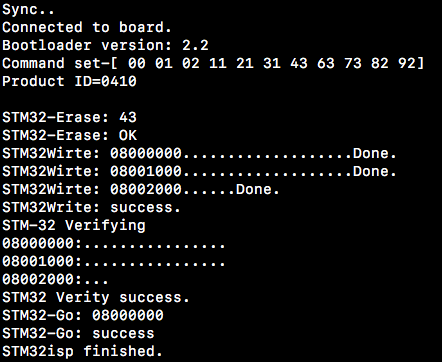
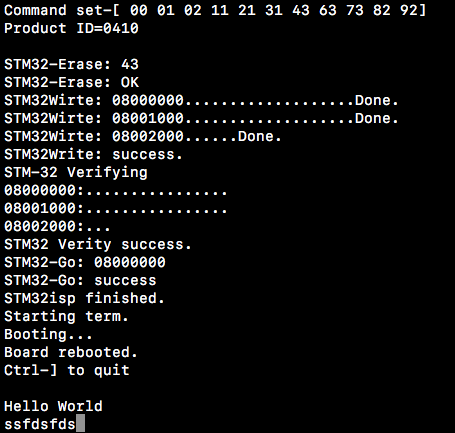
add issue23 and modify issue5

diff --git a/Issue_5/命令行的串口下载工具-MacOS.md b/Issue_5/命令行的串口下载工具-MacOS.md
@@ -26,33 +26,41 @@
     <td> A10 </td>
     <td> TXD </td>
   </tr>
+  <tr>
+    <td> reset </td>
+    <td> DTR </td>
+  </tr>
+  <tr>
+    <td> BT0 </td>
+    <td> RTS </td>
+  </tr>
 </table>
 
-![](./img/stm32.jpeg)
-
 ![](./img/USB.jpeg)
-连接完毕后使用跳线帽将stm32板上的BT0（即BOOT0）接到1，BT1（即BOOT1）接到0(如下图），这样是为了将stm32的执行方式改为执行ROM中的程序，ROM中是厂家烧录的程序，用于支持将程序下载到Flash储存中，在下载完成后要将BT0改到0，转换到执行Flash储存的程序（即刚刚烧录的程序）。
+其中DTR和RTS端口连接reset和BT0端口是为了使用上位机自动控制单片机的引导程序和程序复位，有这两条线的连接，就可以做到一键自动选择引导程序下载程序并在下载完毕后切换到刚刚下载的程序自动执行。
+
+>通过BT0和BT1可以更换执行方式，在下载时改为执行ROM中的程序，ROM中是厂家烧录的程序，用于支持将程序下载到Flash储存中，在下载完成后将BT0改到0，转换到执行Flash储存的程序（即刚刚烧录的程序）。
 
 ![](./img/BOOT.jpeg)
 ## MacOS串口下载工具
 Github上翁恺老师写了一个适用于Unix系统的串口下载工具stm32isp，[这里是地址](https://github.com/wengkai/stm32isp), clone到本地编译安装（make install）后即可在终端直接使用该工具。
 ## 进行下载
-4根线连接完成后将USB插入电脑，此时可以在终端中找到/dev目录下找到一个新的tty.SLAB_USBtoUART设备，说明驱动成功安装并连接，这时候就可以使用stm32isp工具将hex文件下载到单片机
+6根线连接完成后将USB插入电脑，此时可以在终端中找到/dev目录下找到一个新的tty.SLAB_USBtoUART设备，说明驱动成功安装并连接，这时候就可以使用stm32isp工具将hex文件下载到单片机
 
 ![](./img/tty.png)
 
 cd进入之前的测试代码testcode文件夹，输入
-`stm32isp CortexM-Tools_TEST.hex /dev/tty.SLAB_USBtoUART 115200`
+`stm32isp CortexM-Tools_TEST.hex /dev/tty.SLAB_USBtoUART 115200 -reset DTR -bootp -RTS -term 9600`
 
-第一个参数是hex文件路径，第二个参数是串口设备文件，最后一个参数是波特率，工具的详细使用方式运行工具后有提示。下载工具运行后会开始连接，等到出现sync后迅速按下stm32上的reset按钮一秒并松开，即可开始下载。
-
+第一个参数是hex文件路径，第二个参数是串口设备文件，第三个参数是波特率，`-reset`设置复位端口连接的线，这里指定为DTR，`-bootp`设置BT0端口连接的线，这里设置为-RTS，多加的`-`表示低电平。`-term 9600`指定在下载完成后用9600的波特率开启串口终端，这样可以在下载完成后使用串口终端来检查下载结果。工具的详细使用方式运行工具后有提示。下载工具运行后会自动完成连接、下载并自动执行。
 ![](./img/sync.png)
 
 ![](./img/finish.png)
+
+在这里我们可以看到stm32通过串口发送的`Hello World`以及后续的输入回显。
 ## 下载结果验证
 
-下载完毕后可以通过测试A2端口能否控制LED灯的闪烁来确认是否下载成功。(记得将BOOT跳线帽重新连接到0）
-具体连接方式如下：
+下载完毕后，除了串口意外，我们还可以通过测试A2端口能否控制LED灯的闪烁来确认是否下载成功。具体连接方式如下：
 ![](./img/flash.jpeg)
 
 将stm32的A2端口接到LED灯的正极，串联一个实验套装中的电阻后连回stm32上的GND端口，stm32的供电可以通过保持USB转串口芯片的连接，并保持与电脑的连接来供应5V电源。

diff --git a/Issue_23/mbed的echo程序.md b/Issue_23/mbed的echo程序.md
@@ -1,0 +1,98 @@
+# Build an echo program using Mbed
+## What is Mbed
+Arm Mbed is the idea that the Internet of Things (IoT) is a collaboration between the people who make things, the people who use things and the people who make the services all these things use. Arm created a solution to help lead sustainable growth within the IoT and named it Mbed.
+
+## Prerequisites
+
+* Being able to connect your STM32F103C8T6 board to your computer
+* GNU compile tool chain for Arm Cortex-M
+* Serial tool for loading the program into the board's Flash memory
+
+You may read the correspoding tutorials in our github to deal with these. 
+
+## Create a project
+Mbed provides an [online compiler](https://os.mbed.com/compiler/) which offers a full programming environment designed to work with Mbed APIs and boards.
+
+![](./img/i23_compiler.png)
+
+To use this compiler for STM32F103C8T6, we need to sign up and [add the board](https://os.mbed.com/platforms/) NUCLEO-F103RB(having the same CPU as STM32F103C8T6) into the compiler.
+
+![](./img/i23_103.png)
+
+![](./img/i23_add.png)
+
+After that, create a new project in the online compiler:
+
+![](./img/i23_newproject.png)
+
+Then we get a sample project for NUCLEO-F103RB, it is not build for STM32F103C8T6, don't be worry.
+
+Using "Import Wizard" to import "mbed-STM32F103C8T6" library, we can make it fit into our board.
+
+![](./img/i23_import.png)
+
+After the library being imported, don't forget to add `#include <stm32f103c8t6.h>` before `#include <mbed.h>`
+
+Then we can begin to write our echo program, I have written a simple one:
+
+```
+#include "stm32f103c8t6.h"
+#include "mbed.h"
+
+//------------------------------------
+// Hyperterminal configuration
+// 9600 bauds, 8-bit data, no parity
+//------------------------------------
+
+Serial pc(PA_9, PA_10);
+
+DigitalOut myled(LED1);
+
+void echo()
+{
+    pc.printf("%c",pc.getc());
+}
+
+int main()
+{
+    pc.attach(&echo);
+    while(1) {
+        wait(1);
+        myled = !myled;
+    }
+}
+
+```
+It is worth mentioning that the sample given by Mbed use `SERIAL_TX, SERIAL_RX` port as the serial port, we have to change them into `PA_9, PA_10` in order not to change our port settings.
+## Export the project
+We can build the project online, while it only gives you a `.bin` file, and its coding environment isn't comfortable and convinient for our later works. Fortunately we can export the project to our computer.
+
+![](./img/i23_export.png)
+
+Choose the tool chain option `GCC (ARM Embedded)`, and click `Export` 
+
+Unzip the downloaded package and `cd` into it. We can see that it uses makefile to construct the project.
+
+I wrote a simple shell script to automatically build the project, flash it into the board and run it.
+
+```
+#!/bin/bash
+make
+stm32isp ./BUILD/Nucleo_printf.hex  /dev/tty.SLAB_USBtoUART 115200 -reset DTR -bootp -RTS -term 9600
+```
+## Build, Flash it and Run
+Run the script.
+
+![](./img/i23_building.png)
+
+![](./img/i23_echo.png)
+
+We can see that this program works well!
+
+
+
+
+
+
+
+
